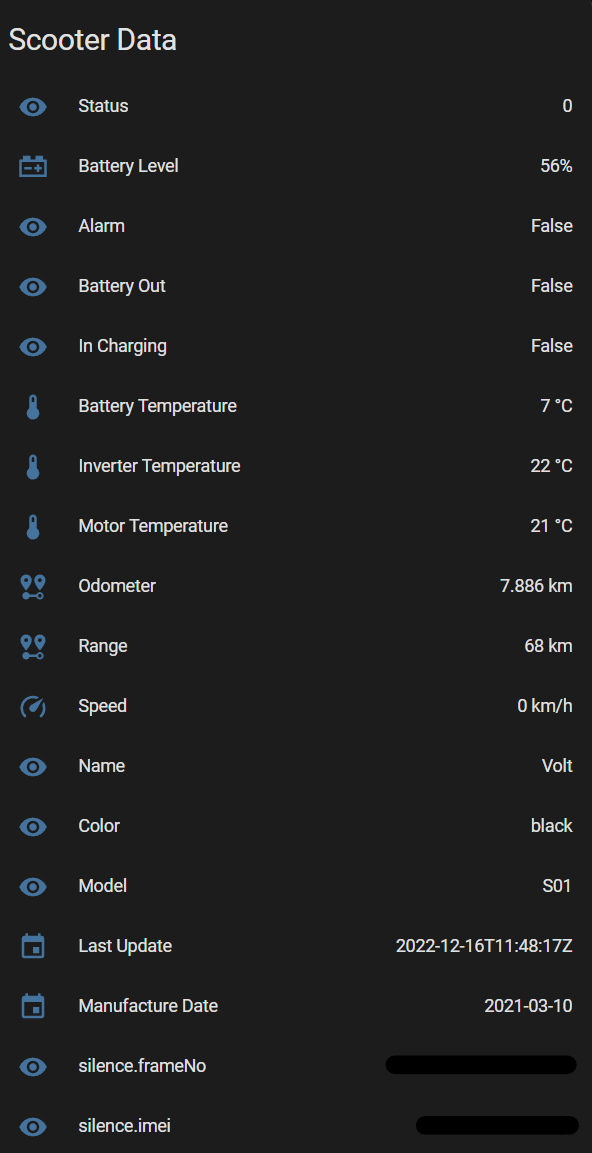
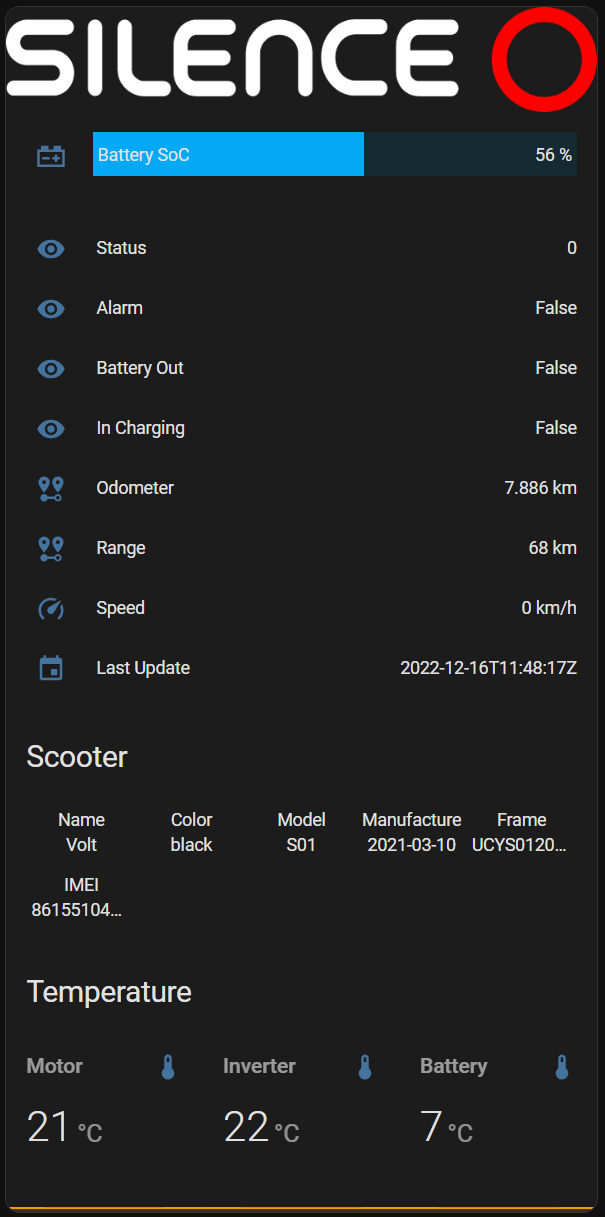
update README

diff --git a/README.md b/README.md
@@ -49,8 +49,76 @@ you will find several sensor entities named 'silence.xxx'
 <img alt="HA Entities" src="images/ha-entities.png" width="650">
 <img alt="HA Battery Soc" src="images/ha-batterysoc.png" width="650">
 
+## Lovelace
 You can create various tabs like this one
-<img alt="HA Scooter" src="images/ha-scooter.png" width="550">
+
+![Lovelace Scooter](images/ha-scooter.png)
+
+Here is the YAML code, you need some HACS Frontend integration installed: 
+[x] `vertical-stack-in-card`
+[x] `custom:mini-graph-card`
+
+```YAML
+type: custom:vertical-stack-in-card
+cards:
+  - type: picture
+    image: local/dark_logo.png
+  - type: custom:bar-card
+    height: 35px
+    entities:
+      - entity: sensor.silence_batterysoc
+        name: Battery SoC
+  - type: entities
+    entities:
+      - entity: sensor.silence_status
+        name: Status
+      - entity: sensor.silence_alarmactivated
+        name: Alarm
+      - entity: sensor.silence_batteryout
+        name: Battery Out
+      - entity: sensor.silence_charging
+        name: In Charging
+      - entity: sensor.silence_odometer
+        name: Odometer
+      - entity: sensor.silence_range
+        name: Range
+      - entity: sensor.silence_velocity
+        name: Speed
+      - entity: sensor.silence_lastreporttime
+        name: Last Update
+  - type: glance
+    title: Scooter
+    entities:
+      - entity: sensor.silence_name
+        name: Name
+      - entity: sensor.silence_color
+        name: Color
+      - entity: sensor.silence_model
+        name: Model
+      - entity: sensor.silence_manufacturedate
+        name: Manufacture
+      - entity: sensor.silence_frameno
+        name: Frame
+      - entity: sensor.silence_imei
+        name: IMEI
+    show_icon: false
+  - type: horizontal-stack
+    title: Temperature
+    cards:
+      - type: custom:mini-graph-card
+        entities:
+          - entity: sensor.silence_motortemperature
+            name: Motor
+            line_color: red
+      - type: custom:mini-graph-card
+        entities:
+          - entity: sensor.silence_invertertemperature
+            name: Inverter
+      - type: custom:mini-graph-card
+        entities:
+          - entity: sensor.silence_batterytemperature
+            name: Battery
+```
 
 ## Device Tracker
 For device tracking you can use this automation to update a dummy device tracker called `silence_scooter_tracker`
